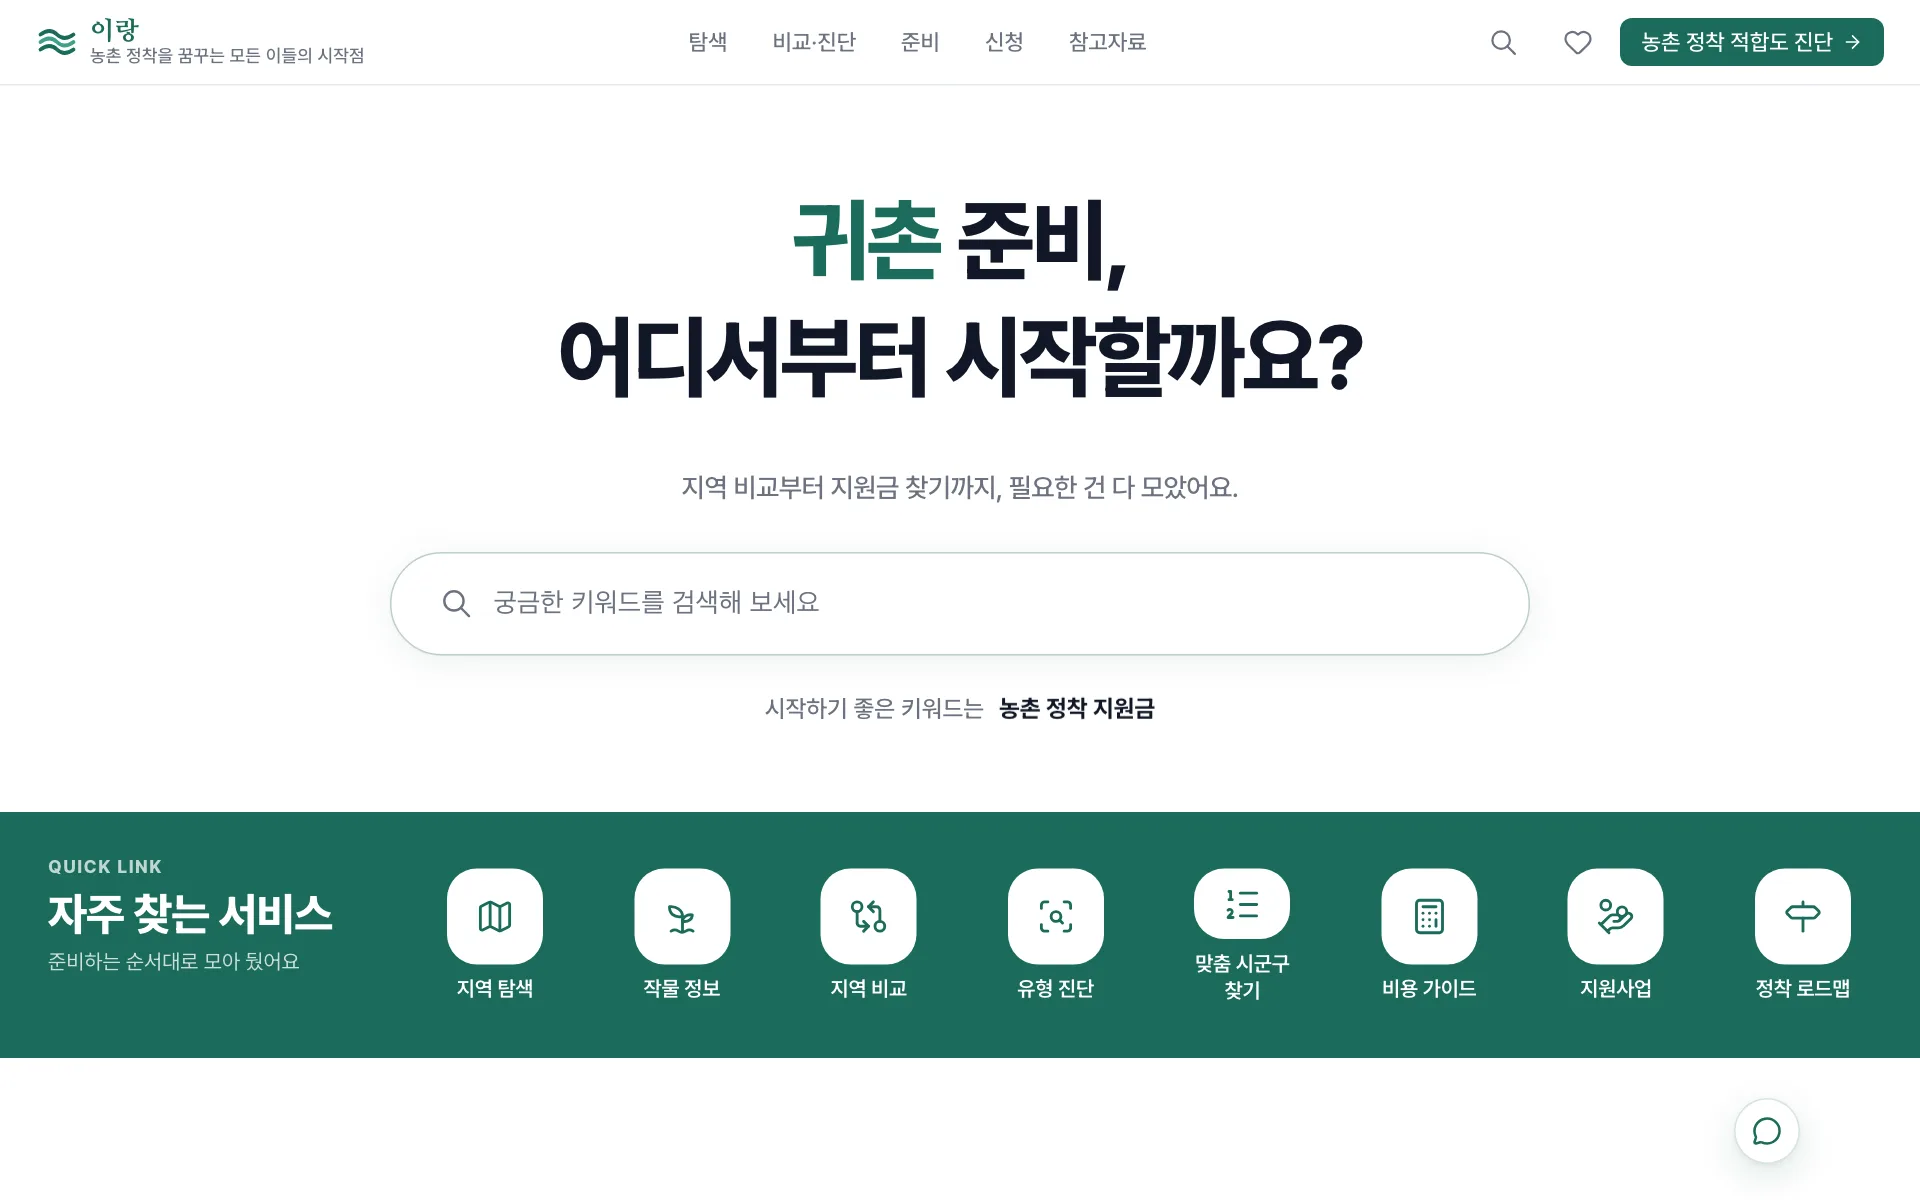
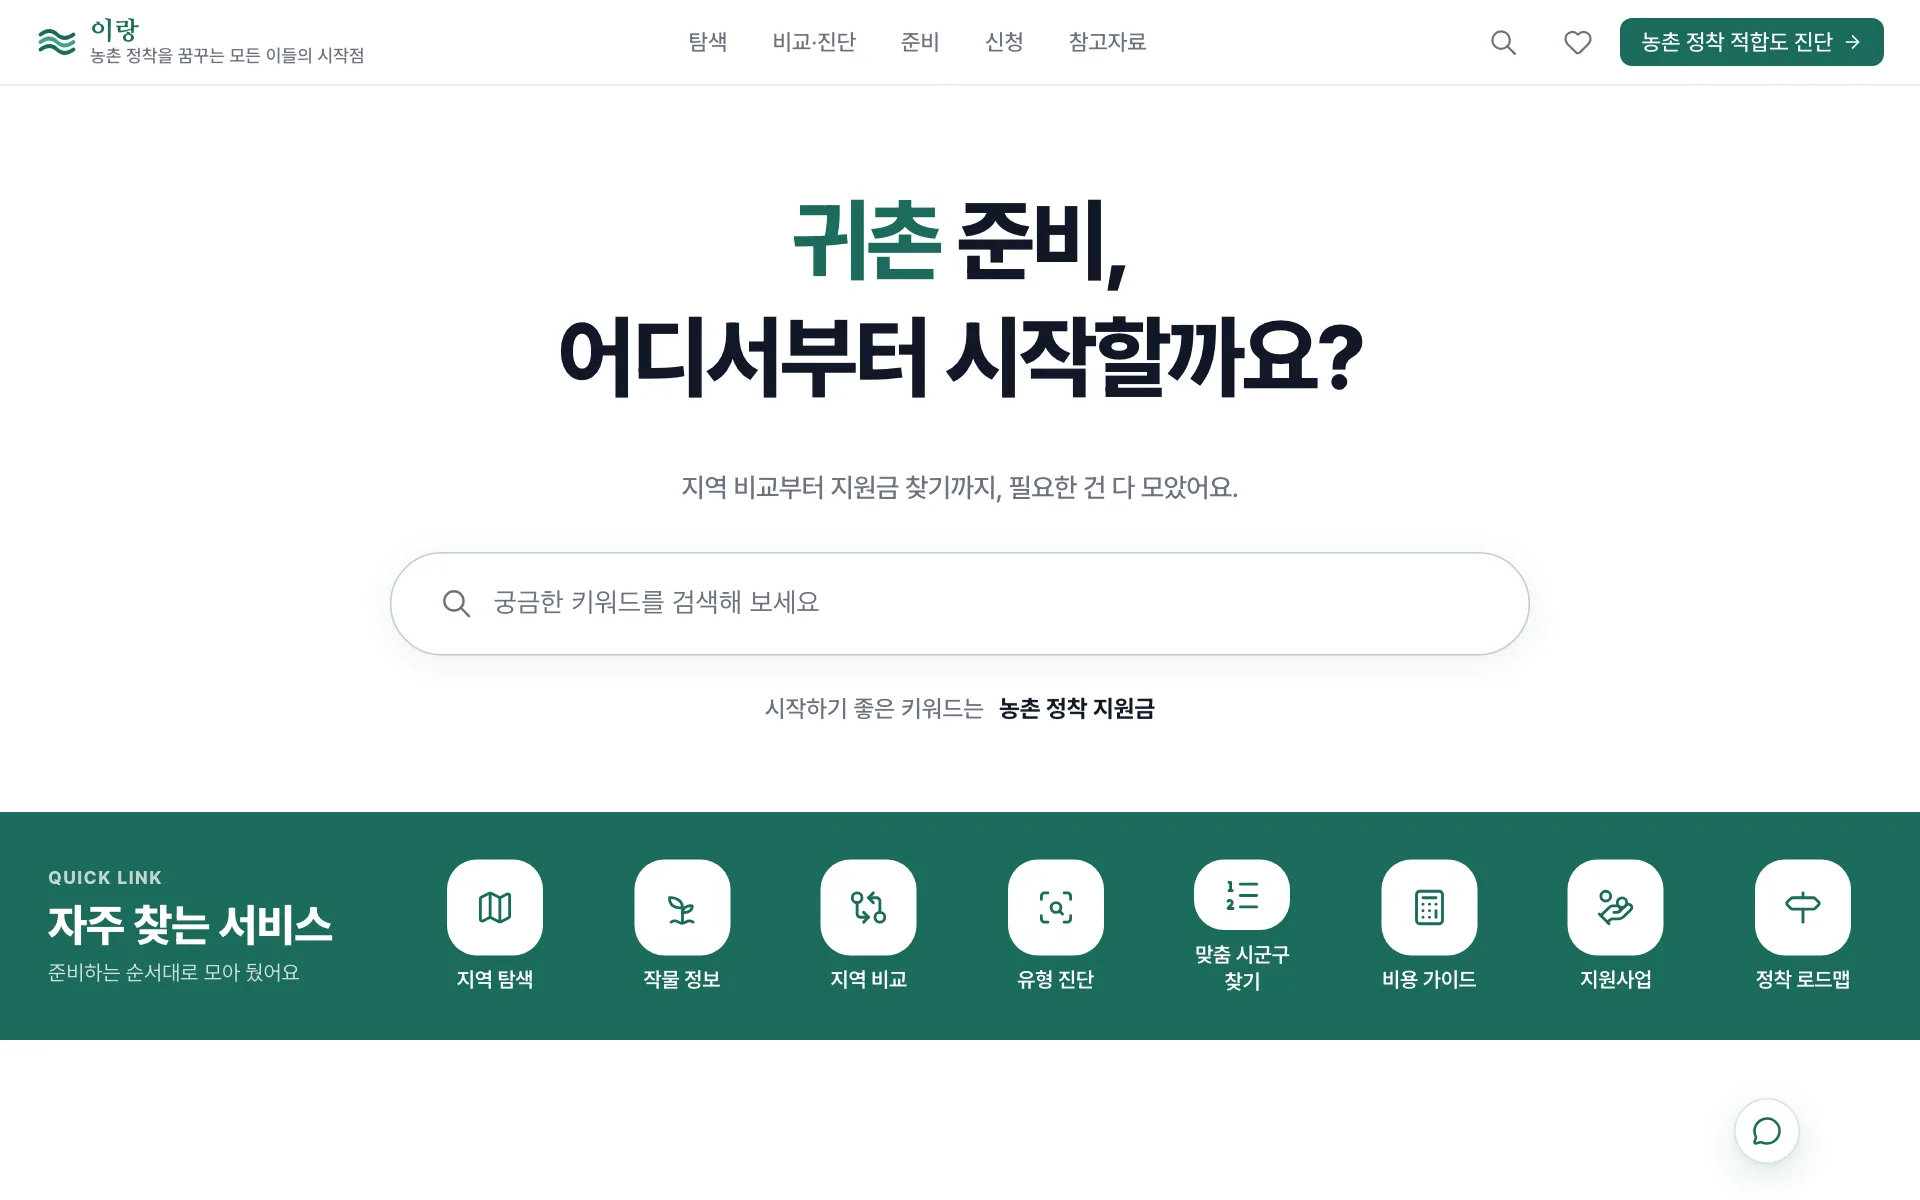
style(landing): 자주 찾는 서비스 띠 — 제목 블록을 타일 중심이 아닌 띠 중심에 (아이콘은 그대로)
회장 9/7 3차: 아이콘 정렬은 맞고 타이틀이 안 맞음. .intro padding-bottom 26 제거 → 그리드 align-items:center 로 띠(행) 중심.

diff --git a/src/components/landing/quick-link-section.module.css b/src/components/landing/quick-link-section.module.css
@@ -186,8 +186,7 @@
   }
 
   .intro {
-    gap: 6px;
-    padding-bottom: 26px; /* (90 - 26) / 2 = 32 = 타일 중심 → 제목 블록 중심을 타일 중심에 */
+    gap: 6px; /* 제목 블록은 띠(행 90px) 중심에 — 타일 중심이 아니라 띠 기준 (9/7 회장 3차) */
   }
 
   .title {
